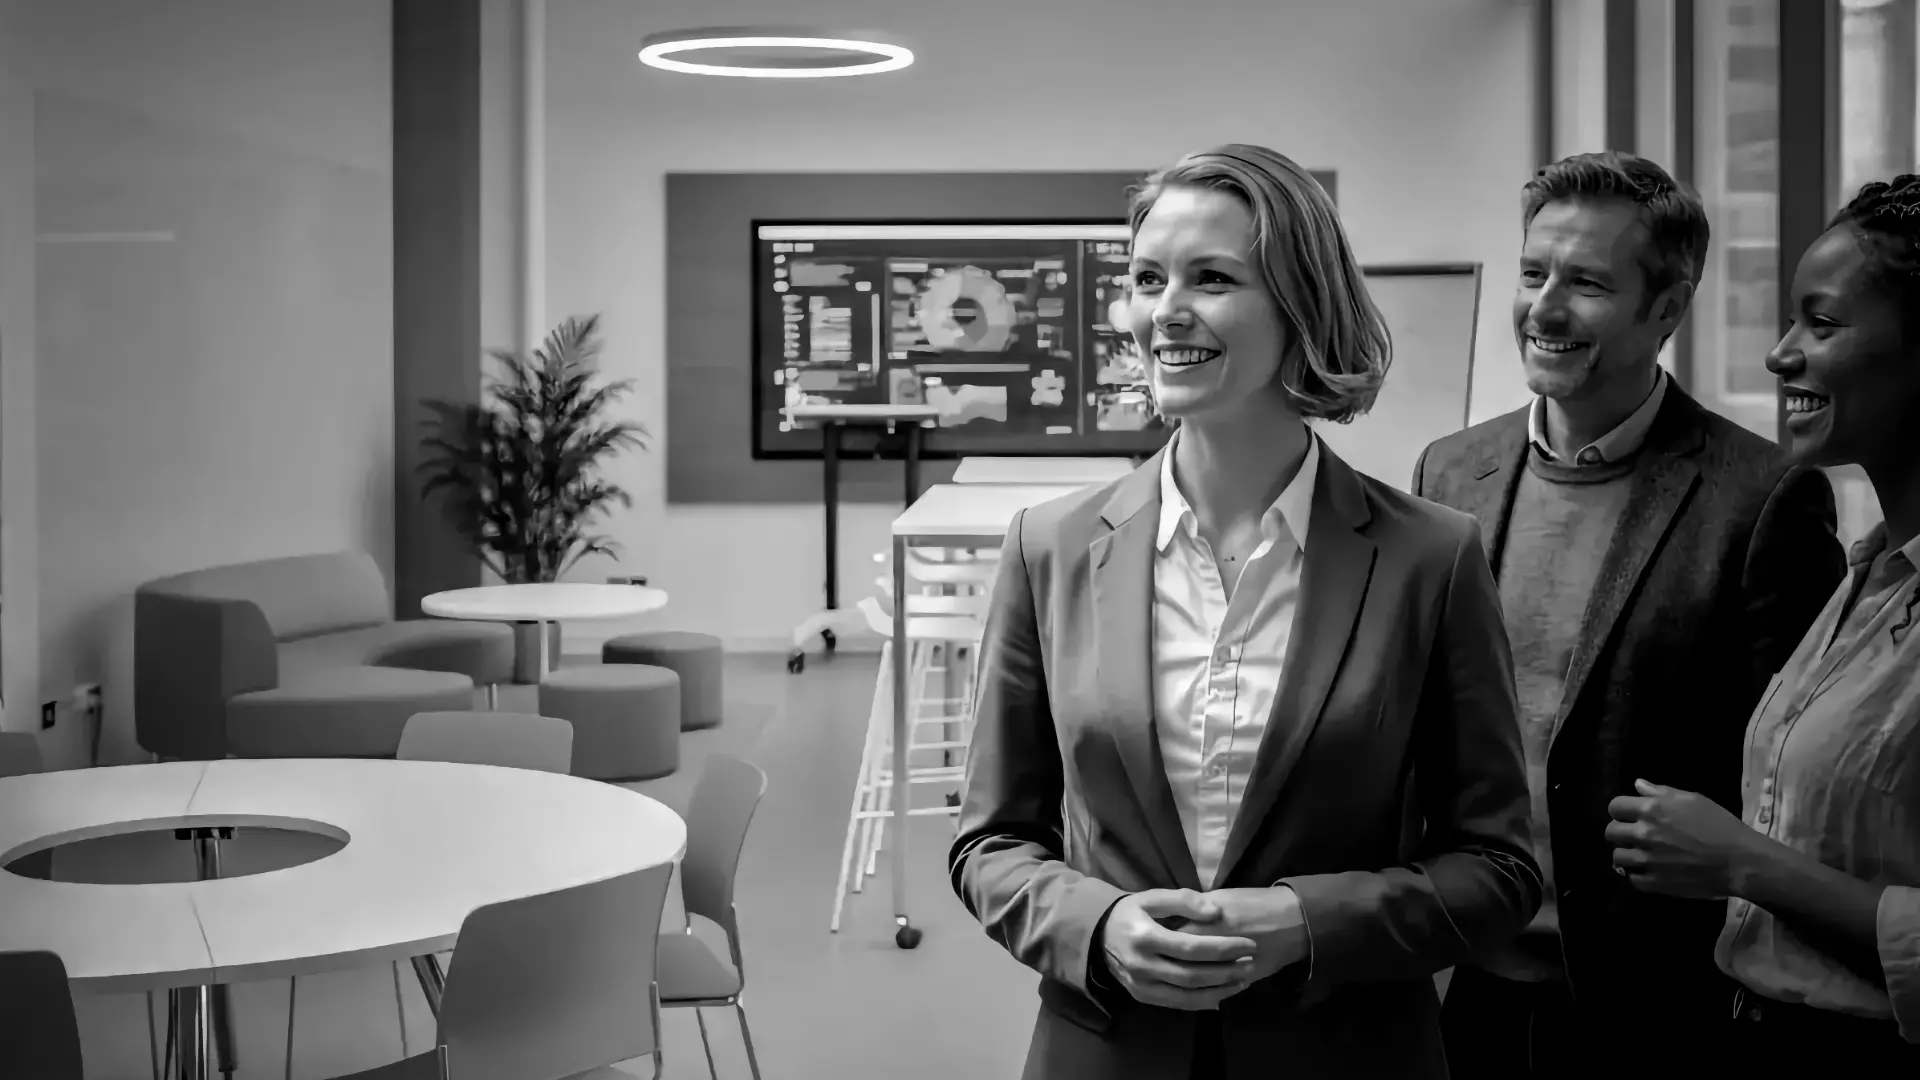
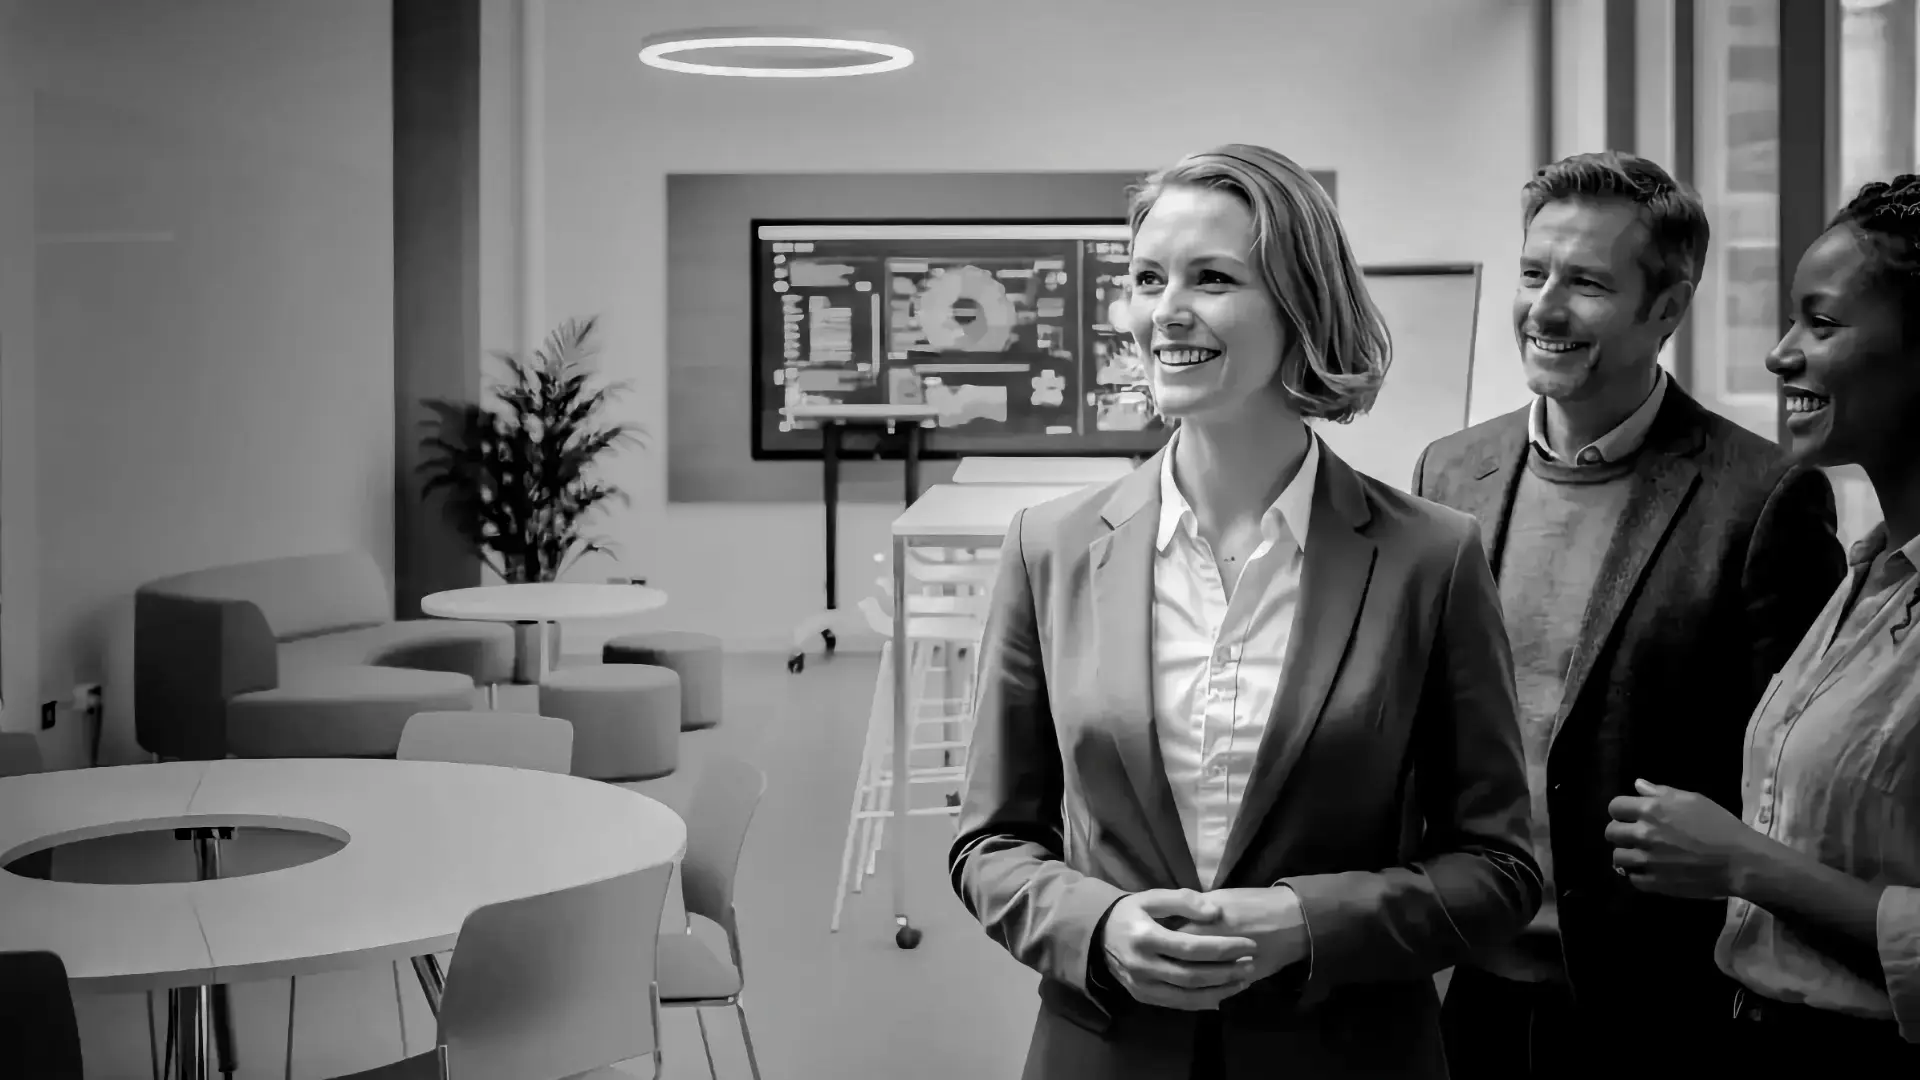
feat: FAQ accordion on homepage replacing ProofSection, FR+EN bilingual

diff --git a/src/components/FaqSection.tsx b/src/components/FaqSection.tsx
@@ -1,0 +1,210 @@
+"use client";
+
+import { useState } from "react";
+
+interface FaqItem {
+  question: string;
+  answer: string;
+}
+
+interface FaqData {
+  eyebrow: string;
+  title: string;
+  lead: string;
+  items: FaqItem[];
+}
+
+export default function FaqSection({ t }: { t: FaqData }) {
+  const [openIndex, setOpenIndex] = useState<number | null>(null);
+
+  const toggle = (index: number) => {
+    setOpenIndex((prev) => (prev === index ? null : index));
+  };
+
+  return (
+    <section
+      style={{
+        padding: "clamp(4rem, 10vw, 9rem) 0",
+        background: "var(--m-ink)",
+        color: "white",
+      }}
+    >
+      <div className="container">
+        <div
+          style={{
+            display: "grid",
+            gridTemplateColumns: "1fr 2fr",
+            gap: "clamp(2.5rem, 6vw, 6rem)",
+          }}
+          className="m-faq-grid"
+        >
+          {/* Left intro */}
+          <div className="m-faq-intro">
+            <div
+              className="t-eyebrow"
+              style={{
+                marginBottom: "1.75rem",
+                color: "rgba(255,255,255,0.45)",
+              }}
+            >
+              {t.eyebrow}
+            </div>
+            <h2
+              style={{
+                fontFamily: "var(--f-display)",
+                fontSize: "clamp(1.75rem, 3.4vw, 2.75rem)",
+                fontWeight: 400,
+                lineHeight: 1.08,
+                letterSpacing: "-0.025em",
+                margin: "0 0 1.75rem",
+              }}
+            >
+              {t.title}
+            </h2>
+            <p
+              style={{
+                fontSize: "0.9375rem",
+                lineHeight: 1.65,
+                color: "rgba(255,255,255,0.75)",
+                maxWidth: "36ch",
+                margin: 0,
+              }}
+            >
+              {t.lead}
+            </p>
+          </div>
+
+          {/* Right accordion */}
+          <div style={{ display: "flex", flexDirection: "column" }}>
+            {t.items.map((item, index) => {
+              const isOpen = openIndex === index;
+              return (
+                <article
+                  key={index}
+                  style={{
+                    borderTop: "1px solid rgba(255,255,255,0.1)",
+                    transition: "border-color 0.3s ease",
+                  }}
+                >
+                  <button
+                    onClick={() => toggle(index)}
+                    aria-expanded={isOpen}
+                    aria-controls={`faq-panel-${index}`}
+                    type="button"
+                    style={{
+                      width: "100%",
+                      background: "transparent",
+                      border: 0,
+                      color: "white",
+                      fontFamily: "inherit",
+                      cursor: "pointer",
+                      textAlign: "left",
+                      padding: "1.85rem 0",
+                      display: "grid",
+                      gridTemplateColumns: "2.25rem 1fr auto",
+                      alignItems: "center",
+                      gap: "1.5rem",
+                      fontSize: "1.0625rem",
+                      fontWeight: 400,
+                      letterSpacing: "-0.005em",
+                      lineHeight: 1.4,
+                      transition: "color 0.25s ease",
+                    }}
+                  >
+                    <span
+                      style={{
+                        fontSize: "0.6875rem",
+                        fontWeight: 500,
+                        letterSpacing: "0.12em",
+                        color: isOpen ? "white" : "rgba(255,255,255,0.45)",
+                        fontVariantNumeric: "tabular-nums",
+                        transition: "color 0.3s ease",
+                      }}
+                    >
+                      {String(index + 1).padStart(2, "0")}
+                    </span>
+                    <span>{item.question}</span>
+                    <span
+                      style={{
+                        position: "relative",
+                        width: 14,
+                        height: 14,
+                        flexShrink: 0,
+                        display: "block",
+                      }}
+                    >
+                      <span
+                        style={{
+                          position: "absolute",
+                          top: "50%",
+                          left: 0,
+                          width: "100%",
+                          height: 1,
+                          background: isOpen
+                            ? "white"
+                            : "rgba(255,255,255,0.45)",
+                          transform: "translateY(-50%)",
+                          transition:
+                            "background 0.3s ease, transform 0.45s cubic-bezier(0.65, 0, 0.35, 1)",
+                        }}
+                      />
+                      <span
+                        style={{
+                          position: "absolute",
+                          left: "50%",
+                          top: 0,
+                          width: 1,
+                          height: "100%",
+                          background: isOpen
+                            ? "white"
+                            : "rgba(255,255,255,0.45)",
+                          transform: isOpen
+                            ? "translateX(-50%) rotate(90deg)"
+                            : "translateX(-50%)",
+                          transition:
+                            "background 0.3s ease, transform 0.45s cubic-bezier(0.65, 0, 0.35, 1)",
+                        }}
+                      />
+                    </span>
+                  </button>
+                  <div
+                    id={`faq-panel-${index}`}
+                    role="region"
+                    style={{
+                      display: "grid",
+                      gridTemplateRows: isOpen ? "1fr" : "0fr",
+                      transition:
+                        "grid-template-rows 0.5s cubic-bezier(0.65, 0, 0.35, 1)",
+                    }}
+                  >
+                    <div style={{ overflow: "hidden" }}>
+                      <p
+                        style={{
+                          padding: "0 0 2.25rem calc(2.25rem + 1.5rem)",
+                          fontSize: "0.9375rem",
+                          lineHeight: 1.75,
+                          color: "rgba(255,255,255,0.75)",
+                          maxWidth: "62ch",
+                          fontWeight: 400,
+                          margin: 0,
+                        }}
+                      >
+                        {item.answer}
+                      </p>
+                    </div>
+                  </div>
+                </article>
+              );
+            })}
+            {/* Bottom border */}
+            <div
+              style={{
+                borderTop: "1px solid rgba(255,255,255,0.1)",
+              }}
+            />
+          </div>
+        </div>
+      </div>
+    </section>
+  );
+}

diff --git a/src/app/globals.css b/src/app/globals.css
@@ -765,6 +765,17 @@ button { font-family: inherit; cursor: pointer; }
   }
 }
 
+/* ── FAQ Section ───────────────────────────────────────── */
+@media (max-width: 950px) {
+  .m-faq-grid {
+    grid-template-columns: 1fr !important;
+    gap: 3rem !important;
+  }
+  .m-faq-intro {
+    position: static !important;
+  }
+}
+
 /* ── Admin Form ───────────────────────────────────────── */
 .admin-form input,
 .admin-form select,

diff --git a/src/app/[lang]/page.tsx b/src/app/[lang]/page.tsx
@@ -3,6 +3,7 @@ import { useEffect, useRef, useState } from "react";
 import Link from "next/link";
 
 import FinalCTA from "@/components/FinalCTA";
+import FaqSection from "@/components/FaqSection";
 import FeaturedInsights from "@/components/FeaturedInsights";
 import SectionHeader from "@/components/SectionHeader";
 import Reveal from "@/components/Reveal";
@@ -245,7 +246,7 @@ export default function HomePage() {
         </div>
       </section>
 
-      <ProofSection proofs={h.proofs} proofTitle={h.proofTitle} proofNote={h.proofNote} />
+      <FaqSection t={h.faq} />
 
       <FinalCTA t={t} title={h.finalCtaTitle} lead={h.finalCtaLead} lang={lang} accent="purple" />
       <FeaturedInsights pageKey="enterprise" lang={lang} />